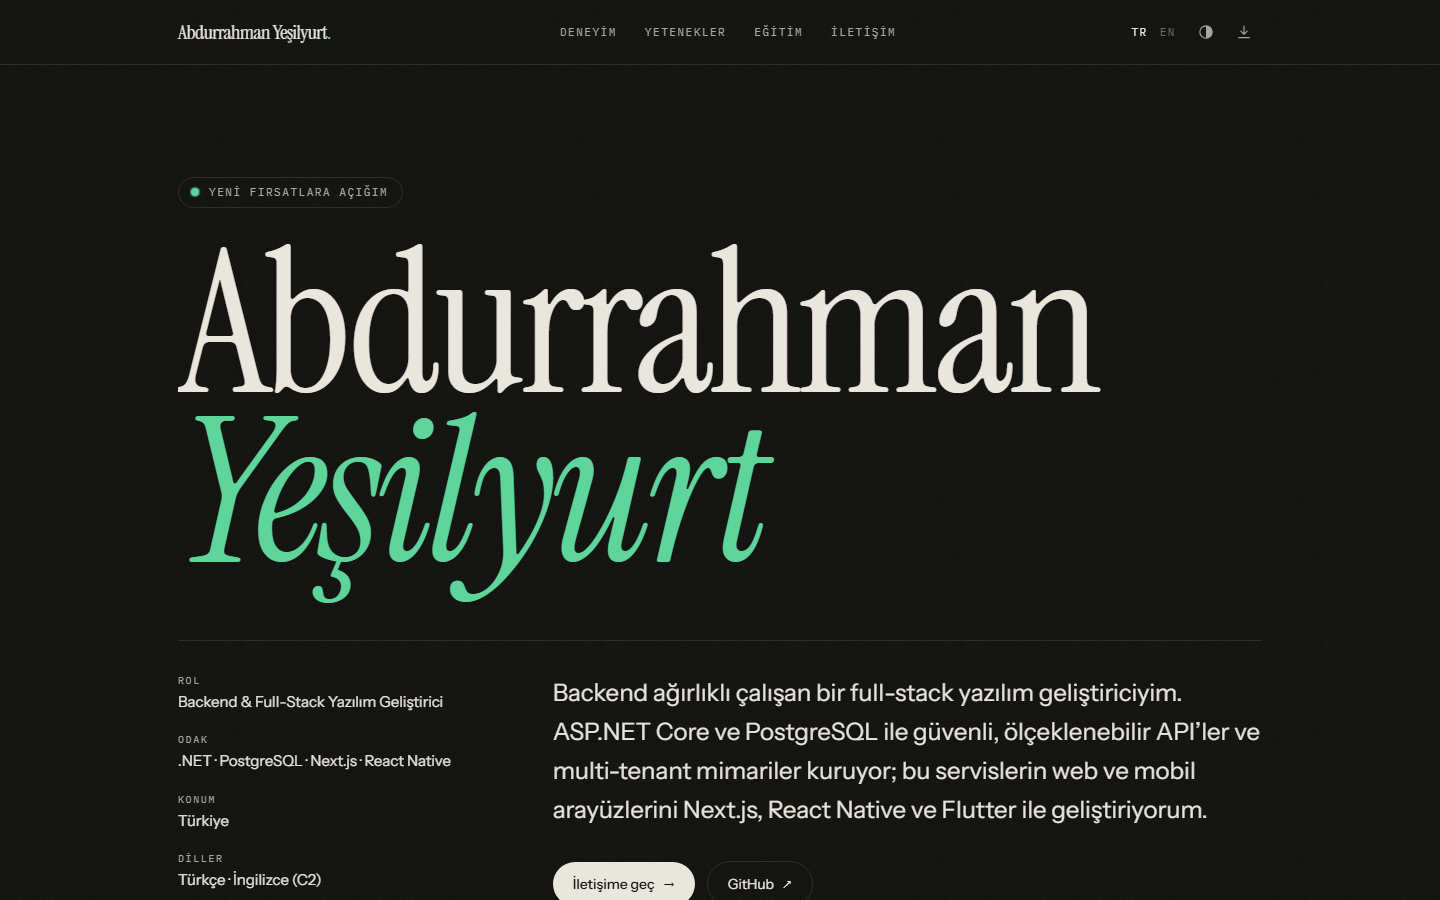
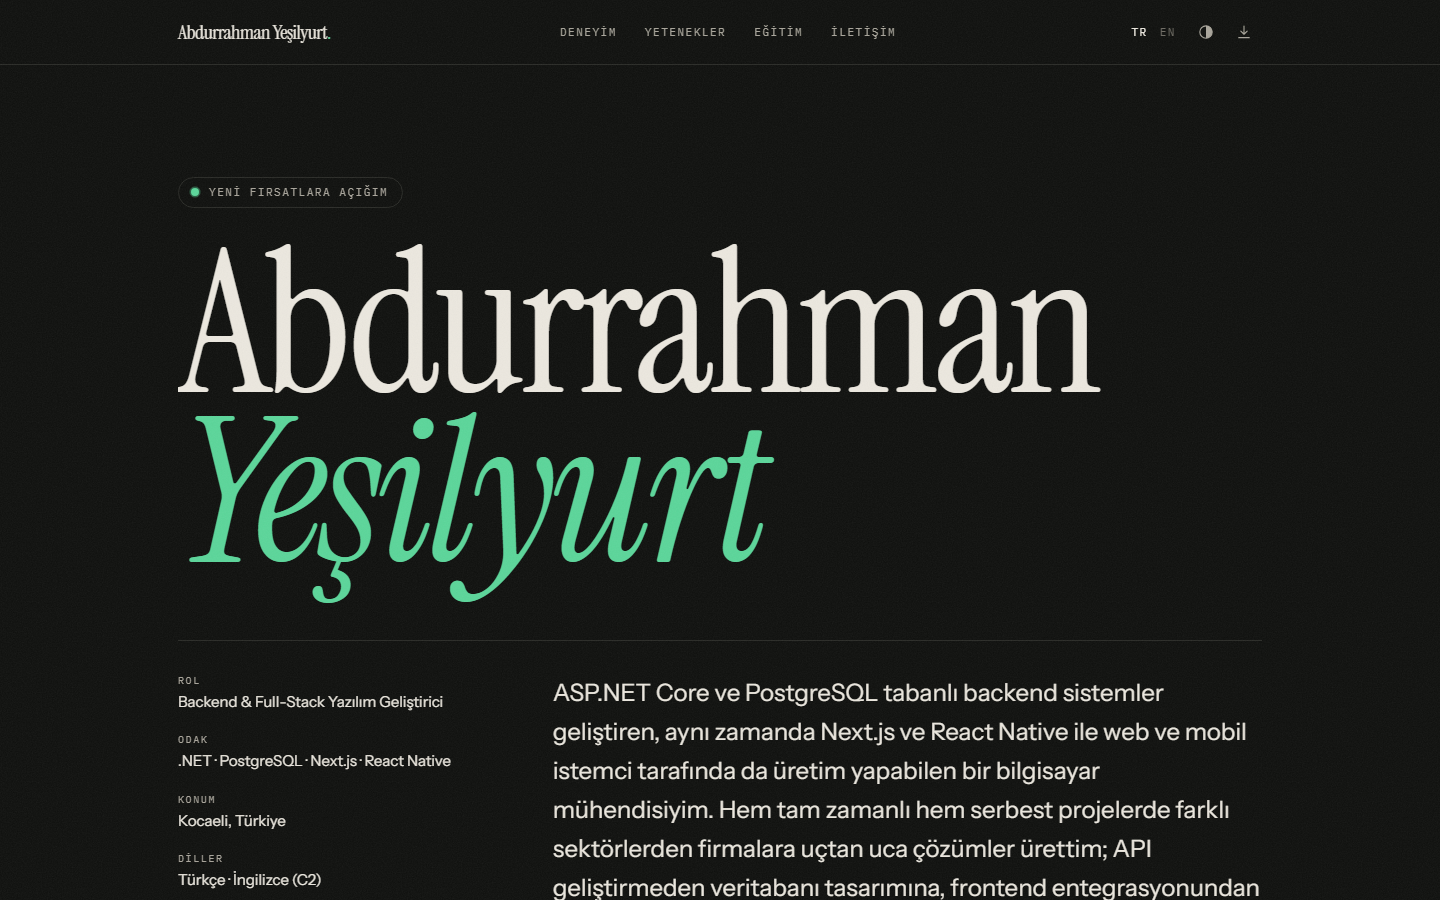
feat: full CV content from the latest résumé
- Experience bullets, end dates, locations and employment details in
  both languages; skills regrouped into nine categories
- Degree, dates and graduation project; Japanese as a basic language
- Location, military service status, LinkedIn and email
- Print layout keeps short entries and sections on a single page
- Scroll reveal finishes within 160px, so tall entries never stay faded

Changed region(s): [[0.375, 0.7467, 0.875, 1.0], [0.125, 0.9022, 0.1875, 0.9333]]

diff --git a/src/data/cv.ts b/src/data/cv.ts
@@ -12,6 +12,9 @@ export type Localized<T = string> = T | { tr: T; en: T };
 export interface Experience {
   role: Localized;
   company: Localized;
+  location?: Localized;
+  /** Kısa ek bilgi, örn. "Staj → Tam Zamanlı" */
+  detail?: Localized;
   start: string;
   end?: string;
   current?: boolean;
@@ -34,9 +37,9 @@ export interface SkillGroup {
 export interface Education {
   school: Localized;
   degree: Localized;
-  field?: Localized;
   start?: string;
   end?: string;
+  note?: Localized;
 }
 
 export interface Certification {
@@ -49,7 +52,8 @@ export type Cefr = 'A1' | 'A2' | 'B1' | 'B2' | 'C1' | 'C2';
 
 export interface Language {
   name: Localized;
-  level: Cefr | 'native';
+  level: Cefr | 'native' | 'basic';
+  note?: Localized;
 }
 
 export interface CV {
@@ -59,6 +63,7 @@ export interface CV {
   location: Localized;
   focus: string[];
   openToWork: boolean;
+  militaryService?: Localized;
   links: { email?: string; github?: string; linkedin?: string };
   experience: Experience[];
   projects: Project[];
@@ -74,47 +79,121 @@ export const cv: CV = {
     tr: 'Backend & Full-Stack Yazılım Geliştirici',
     en: 'Backend & Full-Stack Software Developer',
   },
-  // TODO: Bu metni kendi cümlelerinle güncelle.
   summary: {
-    tr: 'Backend ağırlıklı çalışan bir full-stack yazılım geliştiriciyim. ASP.NET Core ve PostgreSQL ile güvenli, ölçeklenebilir API’ler ve multi-tenant mimariler kuruyor; bu servislerin web ve mobil arayüzlerini Next.js, React Native ve Flutter ile geliştiriyorum.',
-    en: 'I’m a backend-leaning full-stack software developer. I design secure, scalable APIs and multi-tenant architectures with ASP.NET Core and PostgreSQL, then build the web and mobile clients on top of them with Next.js, React Native and Flutter.',
+    tr: 'ASP.NET Core ve PostgreSQL tabanlı backend sistemler geliştiren, aynı zamanda Next.js ve React Native ile web ve mobil istemci tarafında da üretim yapabilen bir bilgisayar mühendisiyim. Hem tam zamanlı hem serbest projelerde farklı sektörlerden firmalara uçtan uca çözümler ürettim; API geliştirmeden veritabanı tasarımına, frontend entegrasyonundan bulut üzerinde dağıtıma ve CI/CD otomasyonuna kadar geniş bir yelpazede sorumluluk aldım.',
+    en: 'Computer engineer building backend systems on ASP.NET Core and PostgreSQL, and equally comfortable on the web and mobile client side with Next.js and React Native. Delivered end-to-end solutions for companies in a range of industries, both in full-time roles and as a freelancer — covering API development, database design, frontend integration, cloud deployment, and CI/CD automation.',
   },
-  location: 'Türkiye',
+  location: 'Kocaeli, Türkiye',
   focus: ['.NET', 'PostgreSQL', 'Next.js', 'React Native'],
   openToWork: true,
+  militaryService: { tr: 'Tamamlandı', en: 'Completed' },
 
   links: {
-    email: '', // TODO: sitede görünecek e-posta adresi
+    email: 'abdurrahmanyesilyurt4141@gmail.com', // Sitede görünecek e-posta adresi (boşsa gösterilmez)
     github: 'https://github.com/abdurrahmanyesilyurt',
-    linkedin: '', // TODO: https://www.linkedin.com/in/...
+    linkedin: 'https://www.linkedin.com/in/abdurrahman-ye%C5%9Filyurt-52b289241/',
   },
 
-  // TODO: Her işe 1–3 madde ekle (ne yaptın, hangi teknolojiyle, ne sonuç verdi)
-  // ve biten işlerin bitiş tarihini `end` ile yaz.
   experience: [
     {
       role: {
-        tr: 'Backend & Full-Stack Yazılım Geliştirici',
+        tr: 'Backend ve Full-Stack Yazılım Geliştirici',
         en: 'Backend & Full-Stack Software Developer',
       },
-      company: { tr: 'Serbest', en: 'Freelance' },
+      company: { tr: 'Serbest (Freelance)', en: 'Freelance' },
+      location: { tr: 'Kocaeli / Uzaktan', en: 'Kocaeli / Remote' },
+      detail: { tr: 'Çeşitli firmalar', en: 'Various clients' },
       start: '2025-06',
       current: true,
+      highlights: {
+        tr: [
+          'Dijitalleşme ihtiyacı olan birden fazla firma için uçtan uca backend çözümleri tasarladım ve hayata geçirdim; gereksinim analizinden canlı ortama alımına kadar süreci tek başıma yönettim.',
+          'ASP.NET Core 8 ile kurumsal Web API’lar geliştirdim; katmanlı mimari, bağımlılık enjeksiyonu, DTO ve temiz kod ilkelerini tutarlı şekilde uyguladım.',
+          'PostgreSQL şeması tasarlayıp EF Core Code-First yaklaşımıyla migration’ları yönettim; canlı veritabanlarında sorgu performansını ölçüp optimize ettim.',
+          'JWT ve HTTP-only cookie tabanlı kimlik doğrulama, refresh token rotasyonu ile token bağlama (IP, UserAgent) akışlarını kurguladım; rol ve izin bazlı çok kiracılı yetkilendirme modeli tasarladım.',
+          'Gerçek zamanlı bildirim altyapıları için SignalR kullandım; SMTP sağlayıcıları üzerinden şablonlu e-posta entegrasyonları gerçekleştirdim.',
+          'Ubuntu sunucuda Docker ile container bazlı dağıtım, Nginx reverse proxy, SSL sertifika kurulumu ve sistem bakımı süreçlerini yürüttüm.',
+          'GitHub Actions ile CI/CD hattı tasarladım; imaj yayını ve otomatik SSH deploy akışı kurarak her push ile güvenli yayın alınmasını sağladım.',
+          'Aynı backend’i tüketen birden fazla web istemcisi (Next.js 15, React, TypeScript, TanStack Query, Tailwind CSS) ve React Native (Expo) tabanlı mobil uygulama geliştirip sürdürdüm; uçtan uca full-stack sorumluluk aldım.',
+          'Ortak projelerde frontend ekipleri için DTO sözleşmeleri, API dokümantasyonu ve migration rehberleri hazırlayarak entegrasyonu kolaylaştırdım.',
+          'Canlı ortamda çıkan hataları sunucu logları üzerinden teşhis edip müdahale ettim; kullanıcı geri bildirimleri doğrultusunda sürekli iyileştirme yaptım.',
+        ],
+        en: [
+          'Designed and delivered end-to-end backend solutions for multiple companies pursuing digital transformation; owned the process from requirements analysis through production rollout.',
+          'Built enterprise Web APIs with ASP.NET Core 8, applying layered architecture, dependency injection, DTO patterns, and clean code principles consistently.',
+          'Designed PostgreSQL schemas and managed migrations with EF Core Code-First; profiled and optimized query performance on live databases.',
+          'Implemented JWT and HTTP-only cookie authentication, refresh token rotation with token binding (IP, UserAgent), and a role- and permission-based multi-tenant authorization model.',
+          'Built real-time notification infrastructure with SignalR and integrated transactional email flows through SMTP providers with templated content.',
+          'Operated Ubuntu servers with Docker container-based deployment, Nginx reverse proxy, SSL certificate setup, and ongoing system maintenance.',
+          'Designed a CI/CD pipeline with GitHub Actions; published container images and automated SSH deploy so every push triggers a safe release.',
+          'Developed and maintained multiple web clients (Next.js 15, React, TypeScript, TanStack Query, Tailwind CSS) and a React Native (Expo) mobile app consuming the same backend — taking full-stack ownership end to end.',
+          'Coordinated with frontend teams on joint projects by preparing DTO contracts, API documentation, and migration guides to streamline integration.',
+          'Diagnosed production issues through server logs and iterated on improvements based on user feedback.',
+        ],
+      },
     },
     {
       role: { tr: 'Backend Geliştirici', en: 'Backend Developer' },
       company: 'TOS Analytics',
+      location: { tr: 'İstanbul', en: 'Istanbul' },
+      detail: {
+        tr: 'Staj → Yarı Zamanlı (Uzaktan) → Tam Zamanlı (Hibrit)',
+        en: 'Intern → Part-Time (Remote) → Full-Time (Hybrid)',
+      },
       start: '2024-08',
+      end: '2025-10',
+      highlights: {
+        tr: [
+          'ASP.NET Core ile kurumsal düzeyde Web API geliştirme süreçlerinde aktif rol aldım; takım üyeleriyle birlikte hata ayıklama ve kod iyileştirme çalışmaları yürüttüm.',
+          'PostgreSQL veritabanı tasarımı, sorgu optimizasyonu ve AWS S3 ile dosya yönetimi entegrasyonları üzerinde çalıştım.',
+          'Git üzerinden versiyon kontrol, pull request inceleme ve takım içi kod kalitesi çalışmalarına katkı sağladım; Web API uç noktalarının test edilmesi ve dokümantasyonu süreçlerinde yer aldım.',
+          'Python betikleri ile veri işleme ve analiz görevleri geliştirdim; yapay zekâ araçlarını iş akışlarına entegre ederek süreçleri otomatize ettim ve ekip verimliliğine katkı sundum.',
+        ],
+        en: [
+          'Contributed actively to enterprise-grade Web API development with ASP.NET Core; debugged and refactored code together with team members.',
+          'Worked on PostgreSQL database design, query optimization, and file management integrations with AWS S3.',
+          'Participated in version control, pull request reviews, and team-wide code quality efforts on Git; took part in testing Web API endpoints and preparing their documentation.',
+          'Wrote Python scripts for data processing and analysis tasks; integrated AI tools into workflows to automate processes and improve team productivity.',
+        ],
+      },
     },
     {
-      role: { tr: 'Mühendislik Stajyeri', en: 'Engineering Intern' },
+      role: { tr: 'Stajyer Mühendis', en: 'Engineering Intern' },
       company: { tr: 'Kocaeli Büyükşehir Belediyesi', en: 'Kocaeli Metropolitan Municipality' },
+      location: 'Kocaeli',
       start: '2024-07',
+      end: '2024-08',
+      highlights: {
+        tr: [
+          '.NET Framework ile iç kullanım amaçlı uygulamalar geliştirdim.',
+          'Sunucu tarafı yapılandırma süreçlerinde mentör eşliğinde çalıştım.',
+          'Ubuntu sunucu yönetimi ve temel sistem yönetimi konularında pratik deneyim kazandım.',
+        ],
+        en: [
+          'Developed internal-use applications on .NET Framework.',
+          'Worked on server-side configuration tasks under mentor supervision.',
+          'Gained hands-on experience in Ubuntu server administration and general system management.',
+        ],
+      },
     },
     {
       role: { tr: 'Mobil Uygulama Geliştirici', en: 'Mobile App Developer' },
-      company: 'MERLAB Innovation, Science and Technology',
+      company: { tr: 'MERLAB İnovasyon Bilim ve Teknoloji', en: 'MERLAB Innovation, Science and Technology' },
+      location: 'Konya',
       start: '2024-03',
+      end: '2024-08',
+      highlights: {
+        tr: [
+          'Flutter ile endüstriyel ölçüm sistemi için mobil uygulama geliştirdim.',
+          'Bluetooth Low Energy cihazlardan gelen verileri uygulamaya entegre ettim.',
+          'Donanım ve yazılım arayüzü üzerinde ekip içinde koordineli çalışma yürüttüm.',
+        ],
+        en: [
+          'Built a Flutter mobile application for an industrial weighing system.',
+          'Integrated sensor data from Bluetooth Low Energy devices into the mobile app.',
+          'Collaborated with the team on the hardware/software interface.',
+        ],
+      },
     },
   ],
 
@@ -130,61 +209,102 @@ export const cv: CV = {
 
   skills: [
     {
-      name: 'Backend',
-      items: ['C#', '.NET', 'ASP.NET Core', 'Web API', 'REST API', 'Entity Framework Core', 'JWT', 'Node.js', 'Python'],
+      name: { tr: 'Diller', en: 'Languages' },
+      items: ['C#', 'TypeScript', 'JavaScript', 'Python', 'SQL', 'Dart'],
     },
     {
-      name: { tr: 'Mimari', en: 'Architecture' },
-      items: [
-        { tr: 'Mikroservisler', en: 'Microservices' },
-        { tr: 'Multi-tenant mimari', en: 'Multi-tenant architecture' },
-      ],
+      name: 'Backend',
+      items: ['ASP.NET Core 8', '.NET 8', 'Web API', 'REST', 'SignalR', 'Entity Framework Core', 'LINQ', 'Node.js'],
     },
     {
       name: 'Frontend',
-      items: ['TypeScript', 'JavaScript', 'React', 'Next.js'],
+      items: ['Next.js 15', 'React', 'TypeScript', 'TanStack Query', 'Tailwind CSS', 'HTML', 'CSS'],
     },
     {
       name: { tr: 'Mobil', en: 'Mobile' },
-      items: ['React Native', 'Expo', 'Flutter', 'Dart'],
+      items: ['React Native', 'Expo', 'Flutter'],
     },
     {
-      name: { tr: 'Veri', en: 'Data' },
+      name: { tr: 'Veritabanı', en: 'Databases' },
       items: [
         'PostgreSQL',
-        'SQL',
         { tr: 'İlişkisel veri modelleme', en: 'Relational data modeling' },
         { tr: 'Sorgu optimizasyonu', en: 'Query optimization' },
-        { tr: 'Veritabanı migration’ları', en: 'Database migrations' },
+        { tr: 'Migration yönetimi', en: 'Migration management' },
       ],
     },
     {
-      name: { tr: 'DevOps & Araçlar', en: 'DevOps & Tools' },
-      items: ['Git', 'GitHub', 'CI/CD', 'AWS', 'Ubuntu Server'],
+      name: { tr: 'Kimlik ve Güvenlik', en: 'Identity & Security' },
+      items: [
+        'JWT',
+        'ASP.NET Core Identity',
+        'Cookie Authentication',
+        { tr: 'Refresh token rotasyonu', en: 'Refresh token rotation' },
+        { tr: 'Rol ve izin tabanlı yetkilendirme', en: 'Role- and permission-based authorization' },
+        { tr: 'Çok kiracılı (multi-tenant) mimari', en: 'Multi-tenant architecture' },
+      ],
+    },
+    {
+      name: { tr: 'Bulut ve DevOps', en: 'Cloud & DevOps' },
+      items: [
+        'AWS EC2',
+        'AWS S3',
+        'Docker',
+        'Nginx',
+        'Ubuntu Server',
+        'GitHub Actions (CI/CD)',
+        { tr: 'SSL ve alan adı yönetimi', en: 'SSL and domain management' },
+      ],
+    },
+    {
+      name: { tr: 'Araçlar', en: 'Tools' },
+      items: ['Git', 'GitHub', 'Swagger/OpenAPI', 'Postman', 'Visual Studio', 'Rider', 'VS Code'],
+    },
+    {
+      name: { tr: 'Diğer', en: 'Other' },
+      items: [
+        { tr: 'QuestPDF (PDF üretimi)', en: 'QuestPDF (PDF generation)' },
+        { tr: 'SMTP entegrasyonları', en: 'SMTP integrations' },
+        { tr: 'Python ile veri işleme', en: 'Python for data processing' },
+        { tr: 'Bluetooth Low Energy entegrasyonu', en: 'Bluetooth Low Energy integration' },
+      ],
     },
   ],
 
-  // TODO: Bölümünü (`field`) ve yıllarını (`start` / `end`, örn. '2020' / '2025') ekle.
   education: [
     {
-      school: 'Konya Teknik Üniversitesi',
-      degree: { tr: 'Lisans', en: 'Bachelor’s degree' },
+      school: { tr: 'Konya Teknik Üniversitesi', en: 'Konya Technical University' },
+      degree: { tr: 'Bilgisayar Mühendisliği, Lisans', en: 'BSc, Computer Engineering' },
+      start: '2021-09',
+      end: '2025-06',
+      note: {
+        tr: 'Bitirme projesi: ASP.NET Core tabanlı mobil uygulama backend geliştirme; kullanıcı bazlı öneri sistemi, JWT kimlik doğrulama, çok katmanlı mimari ve PostgreSQL veritabanı tasarımı konularını kapsadı.',
+        en: 'Graduation project: ASP.NET Core backend for a mobile application — covering a user-based recommendation system, JWT authentication, layered architecture, and PostgreSQL database design.',
+      },
     },
   ],
 
   certifications: [
     {
-      name: { tr: 'Mikroservis Mimarileri Eğitimi', en: 'Microservice Architectures Training' },
+      name: { tr: 'İngilizce C2', en: 'English C2' },
+      issuer: { tr: 'Amerikan Kültür Yabancı Dil Kursları', en: 'American Culture Language Schools' },
     },
     {
-      name: { tr: 'İngilizce C2', en: 'English C2' },
-      issuer: 'American Culture Language Schools',
+      name: { tr: 'Mikroservis Mimarileri Eğitimi', en: 'Microservice Architectures Training' },
     },
   ],
 
   languages: [
     { name: { tr: 'Türkçe', en: 'Turkish' }, level: 'native' },
-    { name: { tr: 'İngilizce', en: 'English' }, level: 'C2' },
+    {
+      name: { tr: 'İngilizce', en: 'English' },
+      level: 'C2',
+      note: {
+        tr: 'İleri düzey okuma ve yazma; iyi düzey dinleme ve konuşma',
+        en: 'Advanced reading and writing; strong listening and speaking',
+      },
+    },
+    { name: { tr: 'Japonca', en: 'Japanese' }, level: 'basic' },
   ],
 };
 

diff --git a/src/i18n/ui.ts b/src/i18n/ui.ts
@@ -15,7 +15,7 @@ interface UI {
   navLabel: string;
   openToWork: string;
   present: string;
-  facts: { role: string; focus: string; location: string; languages: string };
+  facts: { role: string; focus: string; location: string; languages: string; military: string };
   contactCta: string;
   savePdf: string;
   themeToggle: string;
@@ -23,6 +23,7 @@ interface UI {
   certifications: string;
   languages: string;
   native: string;
+  basic: string;
   contactTitle: string;
   contactAccent: string;
   contactLinks: { email: string; github: string; linkedin: string; web: string };
@@ -48,7 +49,7 @@ export const ui: Record<Lang, UI> = {
     navLabel: 'Bölümler',
     openToWork: 'Yeni fırsatlara açığım',
     present: 'Günümüz',
-    facts: { role: 'Rol', focus: 'Odak', location: 'Konum', languages: 'Diller' },
+    facts: { role: 'Rol', focus: 'Odak', location: 'Konum', languages: 'Diller', military: 'Askerlik' },
     contactCta: 'İletişime geç',
     savePdf: 'PDF olarak kaydet',
     themeToggle: 'Açık / koyu tema',
@@ -56,6 +57,7 @@ export const ui: Record<Lang, UI> = {
     certifications: 'Sertifikalar',
     languages: 'Diller',
     native: 'Anadil',
+    basic: 'Temel seviye',
     contactTitle: 'Bir projen ya da açık bir pozisyon mu var?',
     contactAccent: 'Konuşalım.',
     contactLinks: { email: 'E-posta', github: 'GitHub', linkedin: 'LinkedIn', web: 'Web' },
@@ -79,7 +81,7 @@ export const ui: Record<Lang, UI> = {
     navLabel: 'Sections',
     openToWork: 'Open to new opportunities',
     present: 'Present',
-    facts: { role: 'Role', focus: 'Focus', location: 'Location', languages: 'Languages' },
+    facts: { role: 'Role', focus: 'Focus', location: 'Location', languages: 'Languages', military: 'Military service' },
     contactCta: 'Get in touch',
     savePdf: 'Save as PDF',
     themeToggle: 'Light / dark theme',
@@ -87,6 +89,7 @@ export const ui: Record<Lang, UI> = {
     certifications: 'Certifications',
     languages: 'Languages',
     native: 'Native',
+    basic: 'Basic',
     contactTitle: 'Have a project or an open role?',
     contactAccent: 'Let’s talk.',
     contactLinks: { email: 'Email', github: 'GitHub', linkedin: 'LinkedIn', web: 'Web' },

diff --git a/src/styles/global.css b/src/styles/global.css
@@ -128,7 +128,8 @@ body::before {
     .scroll-reveal {
       animation: rise linear both;
       animation-timeline: view();
-      animation-range: entry 0% entry 60%;
+      /* Uzun deneyim kartları da en geç 160px kaydırmada tam görünür olsun */
+      animation-range: entry 0% entry min(60%, 160px);
     }
   }
 }

diff --git a/CLAUDE.md b/CLAUDE.md
@@ -5,7 +5,7 @@ Personal CV site for abdurrahmanyesilyurt.com — static Astro + Tailwind v4, de
 - All CV content lives in `src/data/cv.ts` (fields are either plain strings or `{ tr, en }`); UI strings in `src/i18n/ui.ts`.
 - `/` is Turkish (default locale), `/en/` is English. Both render `src/components/CVPage.astro`.
 - Colors are CSS tokens using `light-dark()` in `src/styles/global.css`; `data-theme` on `<html>` overrides the system theme.
-- Keep the print stylesheet (`print:` variants + `@media print`) fitting on one A4 page.
+- The print stylesheet (`print:` variants + `@media print`) turns the page into a downloadable CV. Keep page breaks clean: short experience entries and short sections (`<Section keepTogether>`) use `print-break-avoid`; only long entries may split between bullets.
 - `vercel.json` sends a strict CSP (`default-src 'none'`, no `'unsafe-inline'`). Never add inline `<script>`, `<style>`, `style=""` attributes or `on*=` handlers — use Tailwind classes (e.g. `[--i:3]` for custom properties) and put client JS in `public/site.js`. `npm run check:csp` enforces this on the build output and runs in CI.
 
 ## Development
